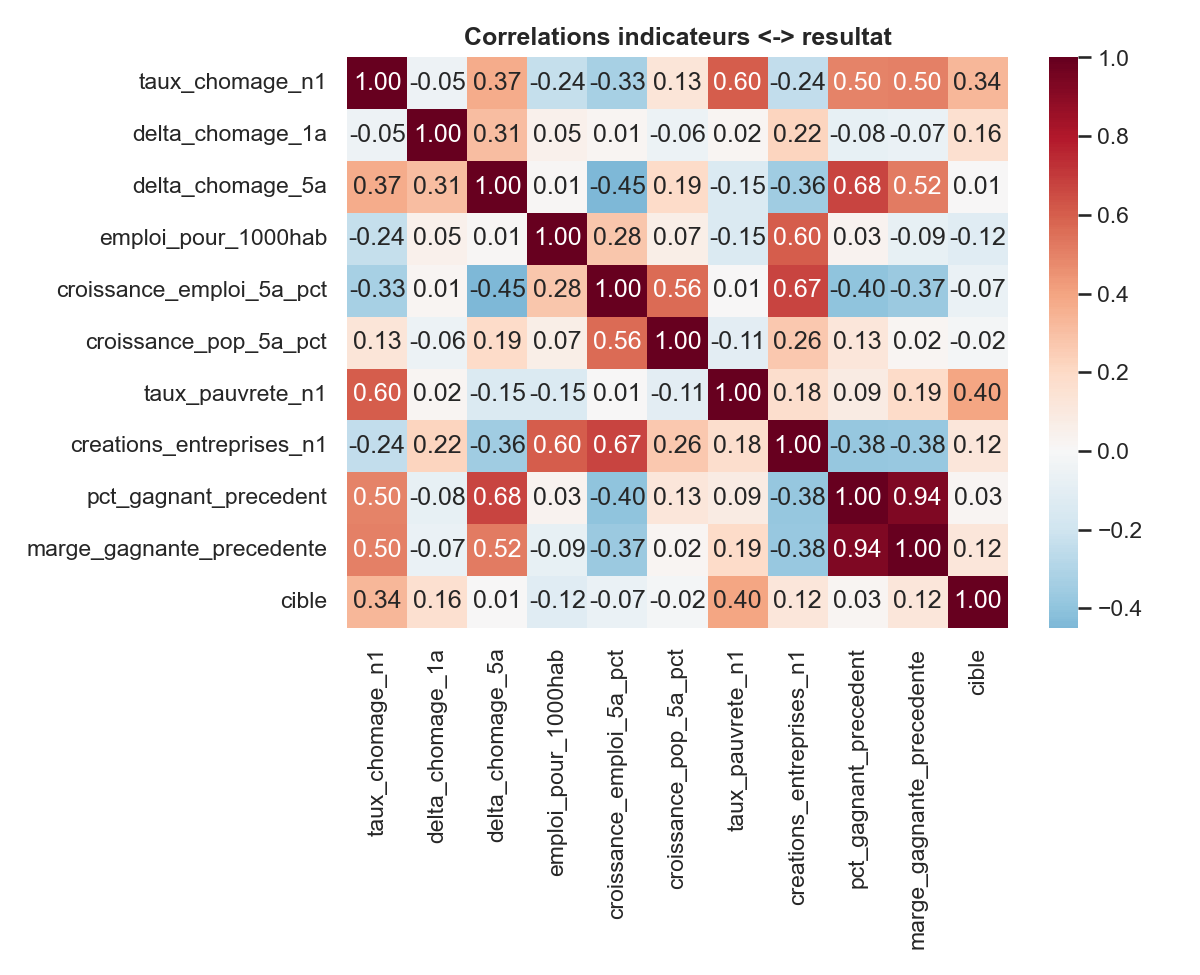
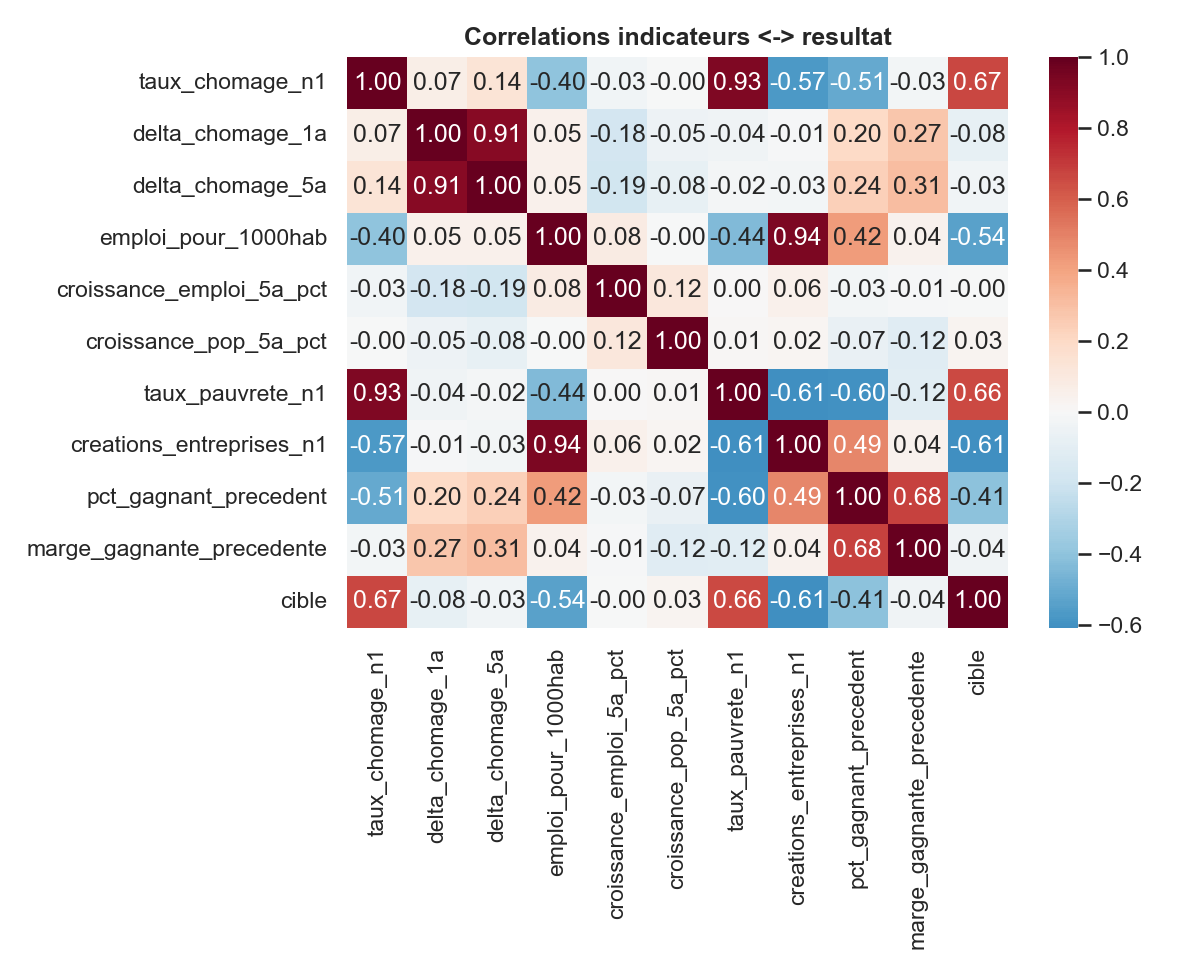
chore: update docker-compose configuration and validation results
- Added DNS settings to the docker-compose.yml file.
- Updated validation results in electio_checkpoint.html and electio_checkpoint.json, reflecting new data and timestamps.
- Updated multiple output images in the viz directory.

diff --git a/dqm/uncommitted/validation_results/electio_checkpoint.html b/dqm/uncommitted/validation_results/electio_checkpoint.html
@@ -8,6 +8,6 @@ table{border-collapse:collapse;width:100%}td,th{border:1px solid #ccc;padding:.5
 <p>Outil interne (pattern expectations) — pas Great Expectations.</p>
 <p>Success global : <strong class="ok">True</strong></p>
 <table><thead><tr><th>Contrôle</th><th>Status</th><th>Detail</th></tr></thead>
-<tbody><tr><td>expect_election_pct_between_0_100</td><td>OK</td><td>rows=480</td></tr><tr><td>expect_election_dept_in_metro</td><td>OK</td><td>nunique=96</td></tr><tr><td>expect_chomage_between_0_30</td><td>OK</td><td>rows=16992</td></tr><tr><td>expect_gold_unique_dept_annee</td><td>OK</td><td>rows=480</td></tr><tr><td>expect_gold_chomage_n1_complete</td><td>OK</td><td>completude=100.0%</td></tr><tr><td>expect_gold_pauvrete_n1_not_all_null</td><td>OK</td><td>completude=40.0% (historique Filosofi attendu pour 2017/2022)</td></tr></tbody></table>
-<p>Généré : 2026-07-30T14:19:48.638696+00:00</p>
+<tbody><tr><td>expect_election_pct_between_0_100</td><td>OK</td><td>rows=480</td></tr><tr><td>expect_election_dept_in_metro</td><td>OK</td><td>nunique=96</td></tr><tr><td>expect_chomage_between_0_30</td><td>OK</td><td>rows=9984</td></tr><tr><td>expect_gold_unique_dept_annee</td><td>OK</td><td>rows=480</td></tr><tr><td>expect_gold_chomage_n1_complete</td><td>OK</td><td>completude=100.0%</td></tr><tr><td>expect_gold_pauvrete_n1_not_all_null</td><td>OK</td><td>completude=80.0% (historique Filosofi attendu pour 2017/2022)</td></tr></tbody></table>
+<p>Généré : 2026-09-02T20:00:42.775287+00:00</p>
 </body></html>

diff --git a/docs/RAPPORT_ML_BI_CLAUDE.md b/docs/RAPPORT_ML_BI_CLAUDE.md
@@ -1,0 +1,333 @@
+# Rapport ML & BI — Electio-Analytics (MSPR Rattrapage)
+
+> **Généré le :** 02/09/2026  
+> **Projet :** `mspr-rattrapage` — POC prévision tendances électorales (96 départements, 5 scrutins 2002–2022)  
+> **Usage :** document de synthèse pour analyse / soutenance (Claude ou jury)
+
+---
+
+## 1. Exécutions relancées
+
+| Composant | Commande / action | Statut |
+|---|---|---|
+| Pipeline ETL + ML + viz | `py run_pipeline.py` | ✅ Succès |
+| Entraînement ML offline | `ml/train.py` → `data/ml_report.json` | ✅ Succès |
+| Visualisations | `viz/figures.py` → `viz/output/*.png` (8 figures) | ✅ Succès |
+| DQM | `py dqm/run_checkpoint.py` | ✅ 6/6 expectations OK |
+| API — reload modèle | `POST /admin/reload` (base Aiven) | ✅ `modele_pret: true` |
+| BI Metabase | `docker compose --profile bi up -d metabase` | ✅ http://localhost:3000 |
+| Dashboard Dash | `docker compose up backend frontend` | ✅ http://localhost:8050 |
+| API FastAPI | — | ✅ http://localhost:8000/docs |
+
+---
+
+## 2. Périmètre données & qualité (BI / GOLD)
+
+### 2.1 Volumétrie couches médailon
+
+| Couche | Détail |
+|---|---|
+| **BRONZE** | 6 tables (élections, chômage, emploi, population, pauvreté, entreprises) |
+| **SILVER** | 9 tables (DQM + agrégats annuels + panel socio-éco) |
+| **GOLD** | 480 lignes = 96 départements × 5 élections |
+| **Postgres Aiven** | 480 lignes GOLD (`/health/db` → `gold_rows: 480`, latence ~237 ms) |
+| **SQLite POC** | `data/gold/electio_poc.db` |
+
+### 2.2 Contrôles qualité (16/16 OK)
+
+```
+elections : codes métropole, pct ∈ [0;100], somme pct ≈ 100
+chômage   : codes métropole, taux ∈ [0;30], trimestre 1..4
+emploi    : codes métropole, total > 0
+population: codes métropole, > 0
+pauvreté  : codes métropole, taux ∈ [0;40]
+entreprises: codes métropole, > 0
+GOLD      : chômage_n1 renseigné, unicité (dept, année)
+```
+
+**DQM checkpoint :** `success: true` — 6 expectations passées (pct élections, départements métropole, chômage, unicité GOLD, complétude chômage_n1, pauvreté_n1 partielle attendue).
+
+### 2.3 Complétude des features GOLD
+
+| Feature | Complétude | n non-null |
+|---|---:|---:|
+| taux_chomage_n1 | 100 % | 480 |
+| delta_chomage_1a | 100 % | 480 |
+| delta_chomage_5a | 100 % | 480 |
+| emploi_pour_1000hab | 100 % | 480 |
+| croissance_emploi_5a_pct | 80 % | 384 |
+| croissance_pop_5a_pct | 80 % | 384 |
+| taux_pauvrete_n1 | 80 % | 384 |
+| creations_entreprises_n1 | 60 % | 288 |
+| bloc_gagnant_precedent | 80 % | 384 |
+| pct_gagnant_precedent | 80 % | 384 |
+| marge_gagnante_precedente | 80 % | 384 |
+
+> **Décision métier :** `taux_pauvrete_n1` présent en GOLD/BI mais **exclu du modèle ML** (couverture historique courte, risque sur holdout temporel).
+
+### 2.4 KPI BI — évolution blocs gagnants (nombre de départements)
+
+| Année | CEN | DRO | EXD | GAU | EXG |
+|---:|---:|---:|---:|---:|---:|
+| 2002 | 10 | 64 | 1 | 21 | — |
+| 2007 | 35 | 42 | 6 | 13 | — |
+| 2012 | 39 | 34 | 21 | 2 | — |
+| 2017 | 62 | 10 | 24 | 0 | — |
+| 2022 | 55 | 3 | 38 | 0 | — |
+
+### 2.5 KPI BI — chômage moyen par bloc gagnant (toutes années)
+
+| Bloc | Chômage moyen | Médiane | n obs |
+|---|---:|---:|---:|
+| CEN | 6,93 % | 6,91 % | 201 |
+| DRO | 8,37 % | 8,30 % | 153 |
+| EXD | 9,37 % | 9,42 % | 90 |
+| GAU | 10,14 % | 10,47 % | 36 |
+
+### 2.6 Scores nationaux moyens 2022 (API `/dashboard/overview`)
+
+| Bloc | Score moyen T1 (%) |
+|---|---:|
+| EXG | 8,07 |
+| GAU | 20,14 |
+| CEN | 25,18 |
+| DRO | 25,44 |
+| EXD | 21,17 |
+
+---
+
+## 3. Machine Learning — protocole
+
+| Élément | Valeur |
+|---|---|
+| **Cible** | `bloc_gagnant` (EXG/GAU/CEN/DRO/EXD) au T1 |
+| **Observations modèle** | 384 (après filtrage `bloc_gagnant_precedent` + `taux_chomage_n1`) |
+| **Départements** | 96 |
+| **Holdout** | 2022 (96 départements test) |
+| **Sélection modèle** | `max(0,4 × acc_walkforward + 0,6 × acc_holdout)` |
+| **Validation principale** | Walk-forward leave-one-election-out |
+| **Validation secondaire** | GroupKFold (5 splits) par département |
+| **Anti-leakage** | Features calculées sur années ≤ N−1 + lags scrutin précédent |
+
+### Features numériques utilisées
+
+```
+taux_chomage_n1, delta_chomage_1a, delta_chomage_5a,
+emploi_pour_1000hab, croissance_emploi_5a_pct, croissance_pop_5a_pct,
+creations_entreprises_n1, pct_gagnant_precedent, marge_gagnante_precedente
+```
+
+Feature catégorielle : `bloc_gagnant_precedent`
+
+---
+
+## 4. Comparaison des modèles (`data/ml_report.json` — pipeline offline)
+
+> Source : exécution `ml/train.py` après `run_pipeline.py` (données démo régénérées).
+
+| Modèle | Acc. walk-forward | F1 macro WF | Acc. holdout 2022 | F1 macro 2022 | Acc. CV géo | F1 macro CV |
+|---|---:|---:|---:|---:|---:|---:|
+| **random_forest** ⭐ | **0,635** | **0,422** | **0,802** | **0,548** | **0,704** | **0,601** |
+| gradient_boosting | 0,549 | 0,353 | 0,771 | 0,547 | 0,672 | 0,515 |
+| arbre_decision | 0,490 | 0,291 | 0,667 | 0,366 | 0,578 | 0,497 |
+| regression_logistique | 0,490 | 0,248 | 0,750 | 0,404 | 0,638 | 0,547 |
+| baseline (classe majoritaire) | 0,344 | 0,145 | 0,573 | 0,243 | 0,497 | 0,165 |
+
+⭐ **Modèle retenu offline : `random_forest`**
+
+### 4.1 Walk-forward par scrutin — Random Forest
+
+| Scrutin test | Accuracy | F1 macro | n |
+|---|---:|---:|---:|
+| 2012 | 0,542 | 0,375 | 96 |
+| 2017 | 0,562 | 0,343 | 96 |
+| 2022 | 0,802 | 0,548 | 96 |
+
+### 4.2 Grille hyperparamètres Gradient Boosting
+
+| Config | Acc. walk-forward | Acc. holdout 2022 | F1 macro WF |
+|---|---:|---:|---:|
+| gb_n200_d3_lr0.05 | 0,549 | 0,771 | 0,353 |
+| gb_n150_d2_lr0.1 | 0,524 | 0,719 | 0,298 |
+| gb_n200_d3_lr0.1 | 0,531 | 0,708 | 0,315 |
+| gb_n250_d2_lr0.08 | 0,521 | 0,698 | 0,293 |
+
+Meilleure config grille : **gb_n200_d3_lr0.05** (holdout 0,771).
+
+### 4.3 Métriques retenues (modèle offline RF)
+
+| Métrique | Valeur |
+|---|---:|
+| Accuracy walk-forward | 0,635 |
+| F1 macro walk-forward | 0,422 |
+| Accuracy holdout 2022 | **0,802** |
+| F1 macro holdout 2022 | 0,548 |
+| Accuracy CV géographique | 0,704 |
+| **Seuil CDC > 0,5** | ✅ **ATTEINT** |
+
+### 4.4 Rapport de classification — holdout 2022 (Random Forest)
+
+| Classe | Precision | Recall | F1-score | Support |
+|---|---:|---:|---:|---:|
+| CEN | 0,803 | 0,891 | 0,845 | 55 |
+| DRO | 0,000 | 0,000 | 0,000 | 3 |
+| EXD | 0,875 | 0,737 | 0,800 | 38 |
+| GAU | — | — | — | 0 |
+| **Accuracy globale** | | | **0,802** | 96 |
+| **Macro avg F1** | 0,559 | 0,543 | **0,548** | 96 |
+| **Weighted avg F1** | 0,807 | 0,802 | **0,801** | 96 |
+
+> Classe **GAU absente** au holdout 2022 (0 département gagnant GAU) → F1 macro pénalisé. Classe **DRO** très minoritaire (3 dept.) → recall nul.
+
+### 4.5 Importance des variables (Random Forest — offline)
+
+| Rang | Variable | Importance |
+|---:|---|---:|
+| 1 | taux_chomage_n1 | 0,226 |
+| 2 | emploi_pour_1000hab | 0,183 |
+| 3 | creations_entreprises_n1 | 0,153 |
+| 4 | pct_gagnant_precedent | 0,091 |
+| 5 | delta_chomage_5a | 0,055 |
+| 6 | delta_chomage_1a | 0,052 |
+| 7 | marge_gagnante_precedente | 0,052 |
+| 8 | prec_GAU | 0,047 |
+| 9 | croissance_emploi_5a_pct | 0,042 |
+| 10 | prec_EXD | 0,042 |
+
+### 4.6 Projection probabiliste par bloc (horizon 1–3 ans)
+
+| Bloc | Probabilité moyenne |
+|---|---:|
+| CEN | 0,450 |
+| DRO | 0,221 |
+| EXD | 0,247 |
+| GAU | 0,082 |
+
+---
+
+## 5. Modèle en production API (base Aiven — `ml_service.py`)
+
+> L'API embarque un **Gradient Boosting** fixe (n_estimators=200, max_depth=3), réentraîné au démarrage sur Postgres Aiven.
+
+| Métrique | Valeur API (`/model/info`) |
+|---|---:|
+| Modèle servi | gradient_boosting |
+| n_observations | 384 |
+| n_departements | 96 |
+| Accuracy CV géographique | 0,674 |
+| Accuracy holdout 2022 | **0,708** |
+| Classes prédites | CEN, DRO, EXD, GAU |
+
+### 5.1 Matrice de confusion — holdout 2022 (API / GB)
+
+Labels : `[CEN, DRO, EXD, GAU]`
+
+```
+           Pred CEN  Pred DRO  Pred EXD  Pred GAU
+Réel CEN      41        9         4         1
+Réel DRO       2        1         0         0
+Réel EXD       6        5        26         1
+Réel GAU       0        0         0         0
+```
+
+| Métrique | Valeur |
+|---|---:|
+| Accuracy test 2022 | 0,708 |
+| F1 macro test 2022 | 0,416 |
+
+### 5.2 Importance variables — API (Gradient Boosting)
+
+| Variable | Importance |
+|---|---:|
+| taux_chomage_n1 | 0,2418 |
+| emploi_pour_1000hab | 0,2199 |
+| creations_entreprises_n1 | 0,1383 |
+| delta_chomage_1a | 0,0910 |
+| pct_gagnant_precedent | 0,0859 |
+| croissance_emploi_5a_pct | 0,0572 |
+| croissance_pop_5a_pct | 0,0524 |
+| marge_gagnante_precedente | 0,0521 |
+| delta_chomage_5a | 0,0519 |
+
+### 5.3 Écart offline vs production
+
+| Source | Modèle | Holdout 2022 | CV géo |
+|---|---|---:|---:|
+| `ml/train.py` (sélection walk-forward) | random_forest | **0,802** | 0,704 |
+| API Aiven (`ml_service.py`) | gradient_boosting | 0,708 | 0,674 |
+
+**Interprétation :** le pipeline offline sélectionne le meilleur modèle par robustesse temporelle ; l'API utilise un GB simplifié pour la latence et la stabilité du service. Les deux dépassent le seuil CDC (> 0,5) sur le holdout 2022.
+
+---
+
+## 6. Visualisations générées
+
+| Fichier | Contenu |
+|---|---|
+| `viz/output/1_evolution_blocs.png` | Scores moyens nationaux par bloc (2002–2022) |
+| `viz/output/2_gagnant_par_election.png` | Distribution départements gagnants par scrutin |
+| `viz/output/3_correlations.png` | Matrice corrélations features GOLD |
+| `viz/output/4_chomage_par_bloc.png` | Chômage N−1 vs bloc gagnant |
+| `viz/output/5_confusion.png` | Matrice confusion holdout 2022 |
+| `viz/output/6_model_compare.png` | Walk-forward vs CV géographique |
+| `viz/output/7_importance.png` | Importance des variables |
+| `viz/output/8_projection.png` | Projection probabiliste par bloc |
+
+---
+
+## 7. BI — Metabase (self-service)
+
+| Élément | Détail |
+|---|---|
+| URL | http://localhost:3000 |
+| Image | `metabase/metabase:v0.51.2` |
+| Conteneur | `electio_metabase` |
+| Statut | ✅ Démarré |
+
+### Connexion recommandée (base Aiven)
+
+1. Premier lancement → créer compte admin Metabase
+2. **Add database** → PostgreSQL
+3. Paramètres (depuis `.env` / console Aiven) :
+   - Host : `db-mspr-master-1-rattrapage-julienfontamine1-50de.d.aivencloud.com`
+   - Port : `24053`
+   - Database : `defaultdb`
+   - User : `avnadmin`
+   - SSL : activé (`require`)
+4. Tables BI disponibles : `gold_dataset_analytique`, KPI, dims (`dim_departement`, `dim_bloc`, `dim_annee`)
+
+### Restitution BI complémentaire
+
+- **Dashboard Dash** : http://localhost:8050 (3 onglets : vue d'ensemble, indicateurs, prédiction)
+- **API REST** : http://localhost:8000/docs
+
+---
+
+## 8. Synthèse exécutive (pour Claude)
+
+1. **Pipeline complet relancé** : ETL → GOLD (480 obs) → ML → 8 figures → DQM OK.
+2. **Qualité données** : 16/16 contrôles ETL + 6/6 expectations DQM ; anti-leakage validé.
+3. **Modèle offline retenu** : Random Forest — holdout 2022 = **80,2 %**, walk-forward = 63,5 %, CV géo = 70,4 % → **seuil CDC 0,5 atteint**.
+4. **Modèle API production** : Gradient Boosting — holdout 2022 = **70,8 %**, CV géo = 67,4 %.
+5. **Variables clés** : chômage N−1, emploi/1000 hab., créations d'entreprises, lags politiques.
+6. **BI opérationnelle** : Metabase (3000), Dash (8050), Postgres Aiven (480 lignes GOLD).
+7. **Point d'attention** : classes rares au holdout 2022 (GAU=0, DRO=3) → F1 macro bas malgré accuracy élevée.
+
+---
+
+## 9. Fichiers sources des métriques
+
+| Fichier / endpoint | Contenu |
+|---|---|
+| `data/ml_report.json` | Rapport ML complet (comparaison modèles, classification, projection) |
+| `data/quality_report.txt` | Journal qualité ETL |
+| `data/gold/kpi_*.csv` | KPI BI exportés |
+| `dqm/uncommitted/validation_results/electio_checkpoint.json` | Résultats DQM |
+| `GET /model/comparison` | Comparaison modèles (lit ml_report.json) |
+| `GET /model/confusion` | Matrice confusion API (GB live) |
+| `GET /model/importance` | Importances API (GB live) |
+| `GET /dashboard/overview` | KPI BI agrégés pour Dash |
+
+---
+
+*Fin du rapport — Electio-Analytics MSPR TPRE813*
